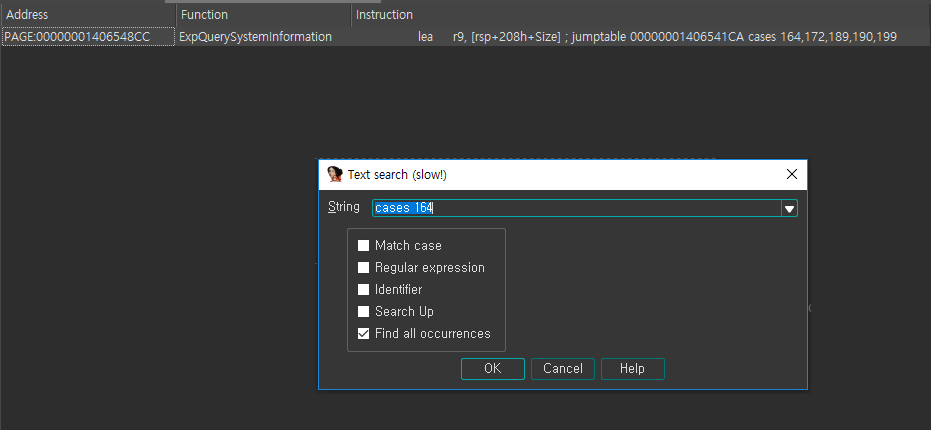
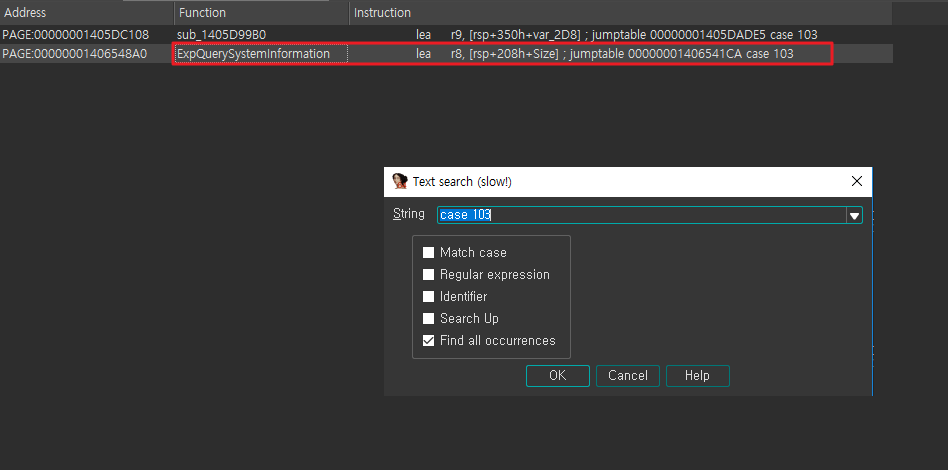
y

diff --git a/pages/antikernel/antikernel_codeintegrity.md b/pages/antikernel/antikernel_codeintegrity.md
@@ -95,11 +95,11 @@ LABEL_4:
 
  몇 가지 케이스가 존재하지 않으면 `ExpQuerySystemInformation` 함수를 호출하는 것을 확인할 수 있습니다. 해당 함수를 확인하면 100가지가 넘는 케이스로 이루어져 디컴파일이 되지 않습니다. 
 
-`IDA`에서 `ALT+T` 를 통해 `cases 164` 라는 문자열을 검색합니다.
+`IDA`에서 `ALT+T` 를 통해 `cases 103` 라는 문자열을 검색합니다.
 
 <img src="https://github.com/Shh0ya/shh0ya.github.io/blob/master/rsrc/antikernel/ci_00.png?raw=true">
 
-해당 위치를 확인하면 아래와 같이 `SeCodeIntegrityQueryPolicyInformation` 함수를 호출하는 것을 확인할 수 있습니다.
+해당 위치를 확인하면 아래와 같이 `SeCodeIntegrityQueryInformation` 함수를 호출하는 것을 확인할 수 있습니다.
 
 <img src="https://github.com/Shh0ya/shh0ya.github.io/blob/master/rsrc/antikernel/ci_01.png?raw=true">
 
@@ -107,22 +107,206 @@ LABEL_4:
 
 ### [-] SeCodeIntegrityQueryInformation
 
+```c
+__int64 __fastcall SeCodeIntegrityQueryInformation(__int64 a1, __int64 a2, __int64 a3)
+{
+  __int64 v3; // r9
+  __int64 v4; // r10
+  int v5; // ecx
 
+  v3 = a3;
+  v4 = a1;
+  if ( !qword_14040CEF8 )
+    return 0xC0000001i64;
+  v5 = (unsigned __int8)SeILSigningPolicy;
+  if ( !SeILSigningPolicy )
+    v5 = (unsigned __int8)SeILSigningPolicyRuntime;
+  LOBYTE(a3) = v5 != 0;
+  return qword_14040CEF8(v4, a2, a3, v3);
+}
+```
+
+별 특별한 로직없이 `_guard_dispatch_icall` 을 통해 `jmp rax` 명령으로 함수(`qword_14040CEF8`)을 호출합니다. 이 함수의 레퍼런스를 찾아가보면 위에 `SeCiCallbacks`라는 변수를 볼 수 있습니다. 
+
+<img src="https://github.com/Shh0ya/shh0ya.github.io/blob/master/rsrc/antikernel/ci_02.png?raw=true">
+
+이 변수는 `SepInitializeCodeIntegrity` 함수에서 사용되고 내부에서 `CiInitialize` 함수를 호출합니다.
+
+### [-] SepInitializeCodeIntegrity
+
+```c
+__int64 SepInitializeCodeIntegrity()
+{
+  unsigned int v0; // edi
+  __int64 v1; // rbx
+  __int64 v2; // rcx
+  unsigned int *v3; // rdx
+
+  v0 = 6;
+  memset(&SeCiCallbacks, 0, 0xD0ui64);
+  LODWORD(SeCiCallbacks) = 0xD0;
+  v1 = 0i64;
+  qword_14040CFA8 = 0xA000006i64;
+  if ( KeLoaderBlock_0 )
+  {
+    v2 = *(_QWORD *)(KeLoaderBlock_0 + 0xF0);
+    if ( v2 )
+    {
+      v3 = *(unsigned int **)(v2 + 0xB10);
+      if ( v3 )
+        v0 = *v3;
+    }
+    if ( *(_QWORD *)(KeLoaderBlock_0 + 0xD8) && (unsigned int)SepIsOptionPresent() )
+      SeCiDebugOptions |= 1u;
+    if ( KeLoaderBlock_0 )
+      v1 = KeLoaderBlock_0 + 0x30;
+  }
+  return CiInitialize(v0, v1, &SeCiCallbacks, &SeCiPrivateApis);
+}
+```
+
+마지막 `CiInitialize` 함수를 호출할 때 3번째 파라미터로 `SeCiCallbacks` 변수의 주소를 전달하는 것을 볼 수 있습니다.
+해당 함수는 IMPORT 되는 함수로 `CI.dll` 이라는 모듈에서 EXPORT 됩니다.
+
+<img src="https://github.com/Shh0ya/shh0ya.github.io/blob/master/rsrc/antikernel/ci_03.png?raw=true">
+
+
+
+### [-] CiInitialize
+
+`IDA`를 이용하여 `%SystemRoot%\system32\ci.dll` 을 열어 아래와 같이 의사코드를 확인합니다.
+
+```c
+signed __int64 __fastcall CiInitialize(int a1, const UNICODE_STRING **a2, __int64 SeCiCallbacks, __int64 SeCiPrivateApis)
+{
+  __int64 SeCiPrivateApis_1; // rbx
+  __int64 SeCiCallbacks_1; // rdi
+  const UNICODE_STRING **v6; // rsi
+  int v7; // ebp
+
+  SeCiPrivateApis_1 = SeCiPrivateApis;
+  SeCiCallbacks_1 = SeCiCallbacks;
+  v6 = a2;
+  v7 = a1;
+  _security_init_cookie();
+  return CipInitialize(v7, v6, SeCiCallbacks_1, SeCiPrivateApis_1);
+}
+```
+
+파라미터에 대한 간단한 정리 후 `CipInitialize` 함수를 호출합니다.
+
+
+
+### [-] CipInitialize
+
+필요 없는 부분을 제외하고 아래와 같이 의사코드를 확인하겠습니다.
+
+```c
+signed __int64 __fastcall CipInitialize(int a1, const UNICODE_STRING **a2, __int64 a3, __int64 a4)
+{
+ ...
+    if ( v20 >= 0 )
+    {
+LABEL_21:
+      v21 = g_HvciSupported == 0;
+      *(_QWORD *)(SeCiCallbacks + 0x20) = CiValidateImageHeader;
+      *(_QWORD *)(SeCiCallbacks + 0x28) = CiValidateImageData;
+      *(_QWORD *)(SeCiCallbacks + 0x18) = CiQueryInformation;
+      *(_QWORD *)(SeCiCallbacks + 8) = CiSetFileCache;
+      *(_QWORD *)(SeCiCallbacks + 0x10) = CiGetFileCache;
+      *(_QWORD *)(SeCiCallbacks + 0x30) = CiHashMemory;
+      *(_QWORD *)(SeCiCallbacks + 0x38) = KappxIsPackageFile;
+      *(_QWORD *)(SeCiCallbacks + 0x40) = CiCompareSigningLevels;
+      *(_QWORD *)(SeCiCallbacks + 0x48) = &CiValidateFileAsImageType;
+      *(_QWORD *)(SeCiCallbacks + 0x50) = CiRegisterSigningInformation;
+      *(_QWORD *)(SeCiCallbacks + 0x58) = CiUnregisterSigningInformation;
+      *(_QWORD *)(SeCiCallbacks + 0x60) = CiInitializePolicy;
+      *(_QWORD *)(SeCiCallbacks + 0x88) = CipQueryPolicyInformation;
+      *(_QWORD *)(SeCiCallbacks + 0x90) = CiValidateDynamicCodePages;
+      *(_QWORD *)(SeCiCallbacks + 0x98) = CiQuerySecurityPolicy;
+      *(_QWORD *)(SeCiCallbacks + 0xA0) = CiRevalidateImage;
+      *(_QWORD *)(SeCiCallbacks + 0xA8) = &CiSetInformation;
+      *(_QWORD *)(SeCiCallbacks + 0xB0) = CiSetInformationProcess;
+      *(_QWORD *)(SeCiCallbacks + 0xB8) = CiGetBuildExpiryTime;
+      *(_QWORD *)(SeCiCallbacks + 0xC0) = CiCheckProcessDebugAccessPolicy;
+      if ( !v21 )
+      {
+        *(_QWORD *)(SeCiCallbacks + 0x78) = CiGetStrongImageReference;
+        *(_QWORD *)(SeCiCallbacks + 0x68) = CiReleaseContext;
+        *(_QWORD *)(SeCiCallbacks + 0x80) = CiHvciSetImageBaseAddress;
+      }
+      PESetPhase1Initialization(v6);
+      if ( (v19 & 0x80000000) == 0 )
+        return v19;
+      goto LABEL_29;
+    }
+  }
+...
+```
+
+`LABEL_21`을 확인하면 `SeCiCallbacks` 배열에 각 함수 주소를 저장하는 것을 확인할 수 있습니다. 즉 위의 `SeCodeIntegrityQueryInformation` 함수에서 호출하는 `qword_14040CEF8` 함수는 `CiQueryInformation` 함수라는 것을 알 수 있습니다.
+
+<img src="https://github.com/Shh0ya/shh0ya.github.io/blob/master/rsrc/antikernel/ci_04.png?raw=true">
+
+
+
+### [-] CiQueryInformation
+
+의사코드를 확인하기 전에, `SYSTEM_CODEINTEGRITY_INFORMATION` 구조체에 대해 알아보겠습니다. 아래의 마스크 값은 특정 값과 연산한 값입니다.
+
+```c
+typedef struct _SYSTEM_CODEINTEGRITY_INFORMATION{
+    ULONG	Lenght;
+    ULONG	CodeIntegrityOptions;
+}SYSTEM_CODEINTEGRITY_INFORMATION;
+```
+
+| Mask       | Symbolic Name                                         | Versions              |
+| :--------- | :---------------------------------------------------- | :-------------------- |
+| 0x00000001 | **CODEINTEGRITY_OPTION_ENABLED**                      | 6.0 and higher        |
+| 0x00000002 | **CODEINTEGRITY_OPTION_TESTSIGN**                     | 6.0 and higher        |
+| 0x00000004 | **CODEINTEGRITY_OPTION_UMCI_ENABLED**                 | 6.2 and higher        |
+| 0x00000008 | **CODEINTEGRITY_OPTION_UMCI_AUDITMODE_ENABLED**       | 6.2 and higher        |
+| 0x00000010 | **CODEINTEGRITY_OPTION_UMCI_EXCLUSIONPATHS_ENABLED**  | 6.2 and higher        |
+| 0x00000080 | **CODEINTEGRITY_OPTION_DEBUGMODE_ENABLED**            | 6.3 and higher        |
+| 0x00000200 | **CODEINTEGRITY_OPTION_FLIGHTING_ENABLED**            | 10.0 and higher       |
+| 0x00000400 | **CODEINTEGRITY_OPTION_HVCI_KMCI_ENABLED**            | 10.0 and higher (x64) |
+| 0x00000800 | **CODEINTEGRITY_OPTION_HVCI_KMCI_AUDITMODE_ENABLED**  | 10.0 and higher (x64) |
+| 0x00001000 | **CODEINTEGRITY_OPTION_HVCI_KMCI_STRICTMODE_ENABLED** | 10.0 and higher (x64) |
+| 0x00002000 | **CODEINTEGRITY_OPTION_HVCI_IUM_ENABLED**             | 10.0 and higher (x64) |
+
+이제 의사코드를 확인해보겠습니다. 마찬가지로 중요한 부분만 확인하겠습니다.
+
+```c
+__int64 __fastcall CiQueryInformation(_DWORD *a1, unsigned int a2, char a3, _DWORD *a4)
+{
+ 
+ ...
+      if ( g_CiOptions & 8 )
+        v7[1] |= 2u;
+      if ( *KdDebuggerEnabled && *KdDebuggerNotPresent != 1 )
+        v7[1] |= 0x80u;
+...
+  return v8;
+}
+```
+
+`g_CiOptions` 라는 변수와 8을 AND 연산한 값이 참인 경우 `v7[1]` 위치에 2를 더합니다. 또한 익숙한 `KdDebuggerEnabled` 변수와 `KdDebuggerNotPresent` 값을 비교하여 디버그 모드인 경우 `v1[1]` 위치에 0x80을 더합니다. 위의 마스크 값을 확인하면 `CODEINTEGRITY_OPTION_TESTSIGN` 과 `CODEINTEGRITY_OPTION_DEBUGMODE_ENABLED` 로 비트가 설정되는 것입니다.
+
+즉 `v7` 변수는 `SYSTEM_CODEINTEGRITY_INFORMATION` 구조체 변수임을 알 수 있습니다.
 
 
 
 ## [0x05] Proof Of Concept
 
-영상은 `Control Debugger`를 이용하여 `ObRegisterCallbacks` 의 콜백 루틴을 더미 함수로 교체 및 복구 합니다. 그리고 순서대로 `KdDebuggerNotPresent` 를 우회하고 `KdDebuggerEnabled` 를 우회합니다.
+이를 이용해 아래와 같이 재밌는 일들이 가능합니다. 사용한 도구는 `WKE`로 커널 메모리를 확인하고 수정할 수 있습니다.
+영상의 내용은 `DEBUGMODE` 와 `DSE`가 비활성화 된 상태(정상 부팅)에서 테스트 인증서로 서명된 드라이버를 로드하는 내용입니다. 
 
-<iframe src="https://youtube.com/embed/YcTgkXGNNBk" allowfullscreen="" width="720" height="365"></iframe>
+<iframe src="https://youtube.com/embed/u0hs55dwzIA" allowfullscreen="" width="720" height="365"></iframe>
 
 
 
 ## [0x06] Conclusion
 
-이로써 모든 프로젝트 과정을 마쳤습니다. 안티 디버깅, 프로세스 보호는 기술의 발전만큼 매우 다양합니다. 새로운 기법이 나타나거나, 아주 오래전에 사용한 기법을 사용하기도 합니다. 더 많은 전역변수나 `RUNTIME_FUNCTION` 내 존재하는 함수들을 이용할 수도 있습니다. 그렇기 때문에 원시적인 방법이 최선이라고 생각합니다.
+부록의 내용이지만 매우 유용한 내용이라 생각되어 추가하였습니다. 해당 내용과 기존 프로젝트 내용이 합쳐지면 실제 `DEBUGMODE`와 `DSE` 에 대한 상태를 마음대로 제어가 가능하기 때문에 커널 디버깅 중임을 좀 더 확실하게 회피가 가능합니다.
 
-긴 글을 읽어주셔서 감사합니다. 궁금한 부분이나 필요한 부분이 있다면 상단에 피드백 메뉴를 통해 전달주시면 답변해드리겠습니다.
-
-감사합니다.
